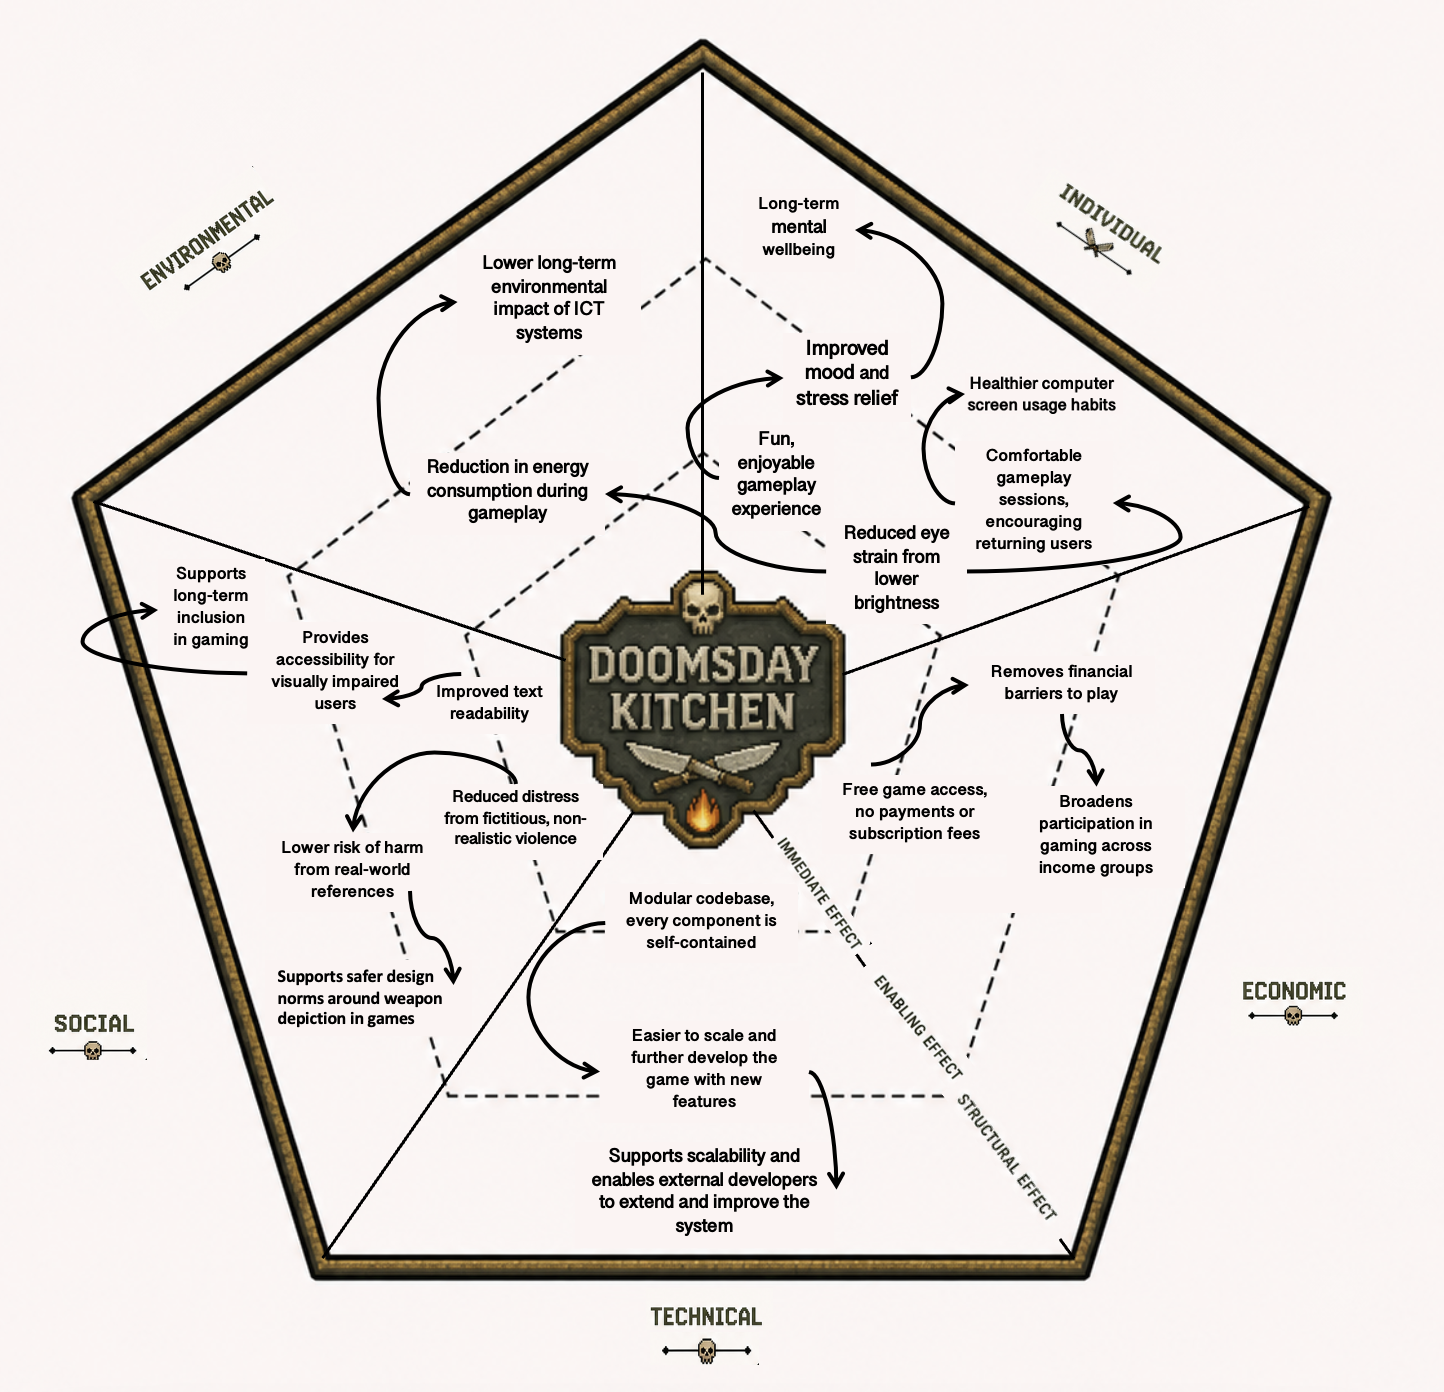
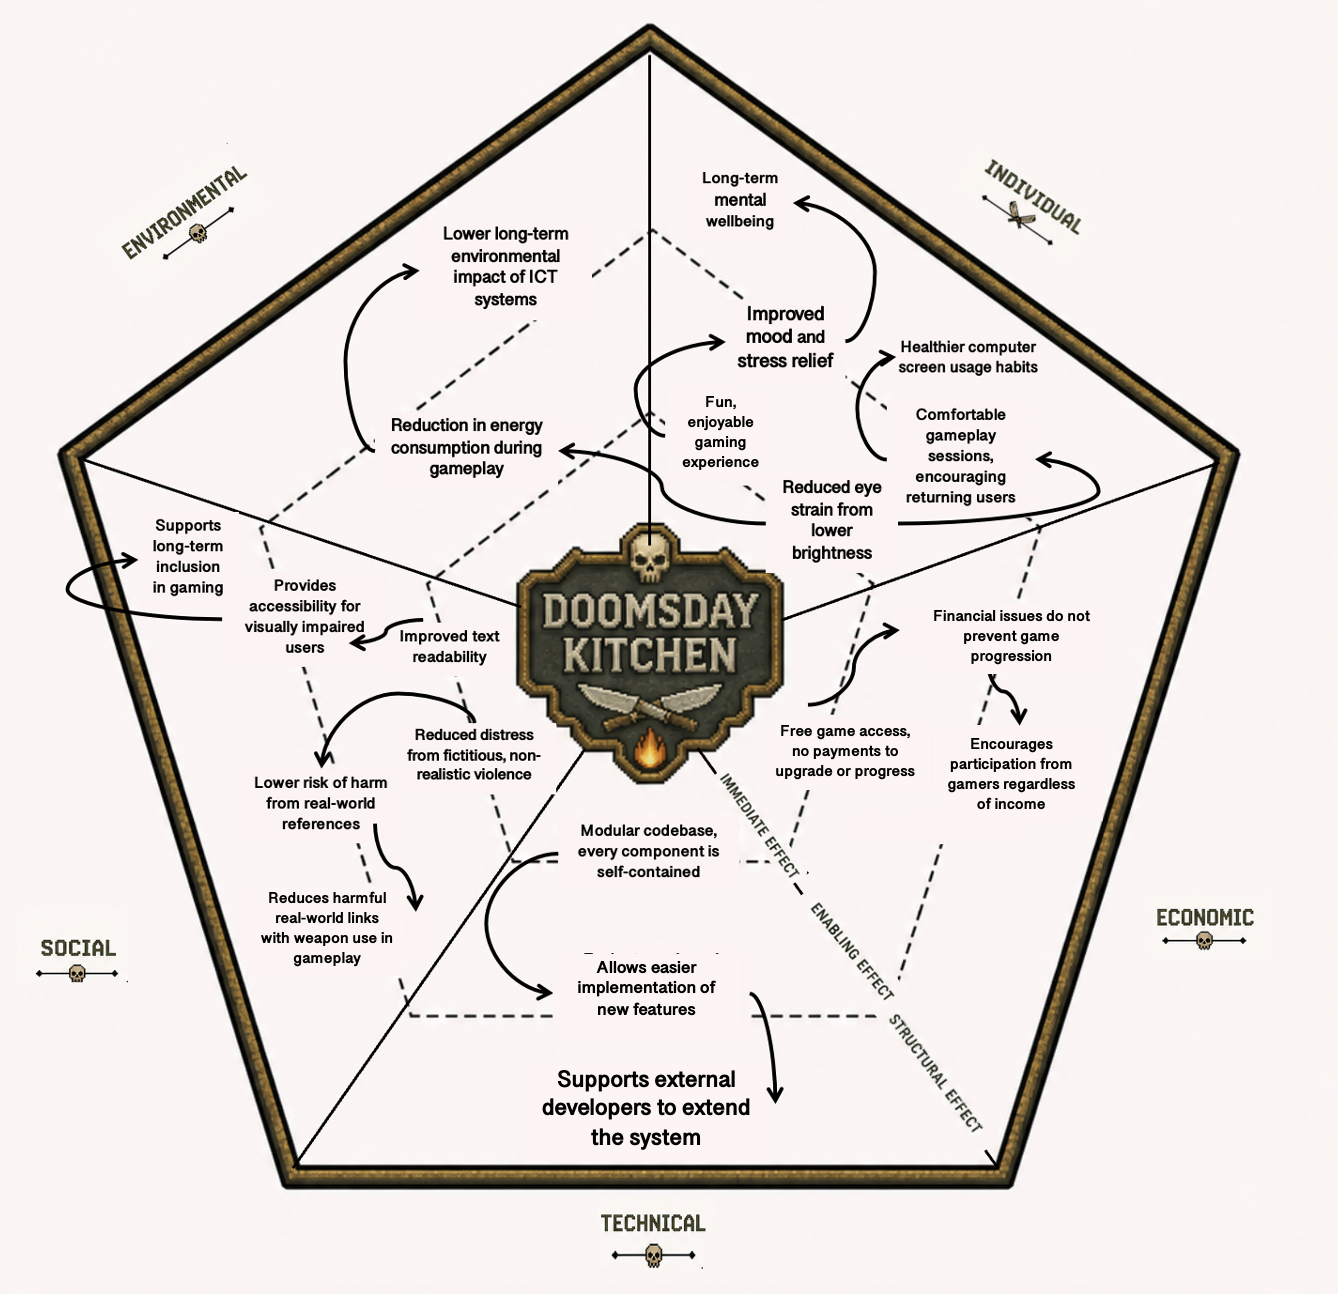
updated quant eval and references

diff --git a/README.md b/README.md
@@ -358,22 +358,7 @@ Based on the findings, several targeted design improvements were recommended:
 
 We administered the NASA Task Load Index (Hart and Staveland, 1988) to measure users’ perceived workload across two difficulty levels: Easy and Hard. The latter contained a higher spawn frequency of zombies. To reduce between-participant differences, a within-subjects design was adopted and we recruited only students. 
 
-Limitation: Learning effects potentially minimised perceived workload differences in the Hard difficulty. On reflection, the conditions could have been counterbalanced or randomised across participants, or possibly a time gap to reduce these biases. Nonetheless, the results show that workload predictably increased between the Easy and Hard difficulty levels.
-
-
 ## Results
-
-### Bar Chart: NASA Task Load Index (TLX)
-
-<p align="center">
-  <img src="documentation/Evaluation_figures/NASATLX,%20BARCHART.png"
-       width="700"
-       style="border-radius: 12px;">
-</p>
-
-A Wilcoxon Signed Rank Test showed statistical significance for the overall scores (W = 1, p < 0.005).
-
----
 
 ### Stacked Radar Chart: Aggregate perceived workload score (n = 10) for Easy and Hard difficulty
 
@@ -387,19 +372,27 @@ A Wilcoxon Signed Rank Test showed statistical significance for the overall scor
 
 ### Radar Chart (Easy Difficulty): Aggregate perceived workload score (n = 10), per dimension
 
+<table>
+  <tr>
+    <td align="center">
+      <strong>Radar Chart (Easy Difficulty)</strong><br>
+      Aggregate perceived workload score (n = 10), per dimension<br><br>
+      <img src="documentation/Evaluation_figures/NASATLXEASY.png" width="300">
+    </td>
+    <td align="center">
+      <strong>Radar Chart (Hard Difficulty)</strong><br>
+      Aggregate perceived workload score (n = 10), per dimension<br><br>
+      <img src="documentation/Evaluation_figures/NASATLXHARD.png" width="300">
+    </td>
+  </tr>
+</table>
+
+
+### Bar Chart: NASA Task Load Index (TLX)
+
 <p align="center">
-  <img src="documentation/Evaluation_figures/NASATLXEASY.png"
-       width="400"
-       style="border-radius: 12px;">
-</p>
-
----
-
-### Radar Chart (Hard Difficulty): Aggregate perceived workload score (n = 10), per dimension
-
-<p align="center">
-  <img src="documentation/Evaluation_figures/NASATLXHARD.png"
-       width="400"
+  <img src="documentation/Evaluation_figures/NASATLX,%20BARCHART.png"
+       width="700"
        style="border-radius: 12px;">
 </p>
 
@@ -417,11 +410,19 @@ A Wilcoxon Signed Rank Test showed statistical significance for the overall scor
 
 ---
 
-Mental, physical, temporal and effort scores were recorded significantly higher in the hard condition, as expected due to a higher zombie spawn frequency, tighter timing pressure, and the need for faster keyboard movements. 
+Most dimensions produced a significant result, demonstrating that perceived workload increased between easy and hard conditions, and our difficulty levels were clearly different. 
+
+Mental demand was significantly higher in the hard condition, which can be attributed to the increased zombie spawn frequency. This required players to handle multiple threats, moving quickly across the screen before zombies became too close. This likely challenged their attentional resources and, alongside the non-significant result in performance, is consistent with research that increasing "enemies" can reduce game performance and increase cognitive workload (Allison and Polich, 2009).
+
+Physical demand was moderately higher in the harder difficulty, as expected, due to the faster and more frequent keyboard inputs needed to manage multiple actions, such as shooting zombies and purchasing upgrades to succeed in the level.
+
+Temporal and effort scores were moderately higher in the hard condition, indicating players felt under time pressure and exerted more effort to achieve their score. We attribute this to increased perceived time pressure and higher task complexity due to the greater number of zombies. This is consistent with gaming research that use the NASA-TLX, indicating higher cognitive load in time-constrained situations where players feel the need to act quickly under pressure (Sevcenko et al., 2021).
 
 Interestingly, frustration had an insignificant result, with unusual variability in scores. For example, User 7 reported less frustration and effort for the hard condition, despite rating increased mental demand. User 1 also recorded less frustration in the harder condition, despite rating mental, physical and temporal demand as higher.
 
 This could be attributed to differences in participants’ perception of the game feedback, specifically the health bar, which very gradually decreased from 100% during gameplay. Participants may not have perceived this as impactful enough to feel frustrated. Rather than omitting these values as possible outliers, we included them in our evaluation, linking them to individual differences. 
+
+Limitation: Learning effects potentially minimised perceived workload differences in the Hard difficulty. On reflection, the conditions could have been counterbalanced or randomised across participants, or possibly a time gap to reduce these biases. Nonetheless, the results show that workload predictably increased between the Easy and Hard difficulty levels.
 
 
 ## Black Box Testing
@@ -484,17 +485,31 @@ Testing was performed by simulating real player behaviour and verifying that all
 | 3 | Key bindings are consistent | Same keys work throughout game | ✓ Pass |
 
 # 6. Sustainability
-It is important to consider the sustainability impact of our systems across all dimensions beyond its immediate effects (enabling and structural), as through our design we cause change, and shape our environment (Karlskrona, 2015 ADD REF).  
+It is important to consider the sustainability impact of our systems across all dimensions beyond its immediate effects (enabling and structural), as through our design we cause change, and shape our environment (Becker et al., 2015).  
 
-Our team conducted a sustainability impact analysis with the Sustainability Analysis Framework. We identified user stories for each dimension. However, we found the environment dimension, individual and social dimensions most applicable to our game.
+Our team conducted a sustainability impact analysis with the Sustainability Analysis Framework. We identified user stories for each dimension. 
+
+| Sustainability Dimension | User Story | Acceptance Criteria |
+|-------------------------|------------|---------------------|
+| Individual |  As a player, I want Doomsday Kitchen to have a pause menu, so I can prevent the continuous, addictive game loop and take a break. | Given I am playing a level, when I open the pause menu, then Doomsday Kitchen should halt immediately and display an option to exit. |
+|  | As a player, I want a brightness slider, so I can reduce eye strain during game sessions. | Given I am on the settings menu, when I adjust the brightness slider, then the brightness should immediately update to the selected value. |
+| Social | As a visually-impaired player, I want to increase text size, so I can read text comfortably. | Given I am on the settings menu, when I increase the text size, then all UI text should increase proportionally and remain readable for the session. |
+|  | As a hearing-impaired player, I want to control both sound effects and music volume, so that I can adjust the audio levels to suit my hearing needs. | Given I am on the settings menu, when I increase or decrease the music or sound effects volume, then they should update without affecting the other. |
+|  | As a player, I want Doomsday Kitchen phases to use fictional elements, so violent themes (like weaponery) feel more light-hearted and less realistic . | Given I am playing the game, when I enter the shooter or kitchen phase, then I should see characters and assets presented in a non-realistic style. |
+| Environmental | As an environmentally-aware player, I want to be able to exit Doomsday Kitchen's loop at any time, so I can reduce unnecessary energy consumption. | Given I am playing Doomsday Kitchen, when I choose to exit the level, then it should stop the game and return me to the main page. |
+| Technical | As a developer, I want Doomsday Kitchen code to be modular, so it is easier to maintain and update components. | Given the Doomsday Kitchen codebase, when new features are added, then they should not require significant changes to other components designs. |
+| Economic | As a player, I want to progress through levels in Doomsday Kitchen without needing to pay for key features, so I am not limited by my finances.  | Given I access Doomsday Kitchen, when I progress through levels, I should not be asked to make payments to continue. |
+
 
 #### Individual Impact
 
-**Doomsday Kitchen** may positively impact a user’s mental health by providing stress relief and a sense of accomplishment after each level/day survived. Research suggests that gaming can reduce stress and improve mood (WHO, 2025 ADD REF AT END OF REPORT), supporting the potential benefits of games as a leisure activity. 
+Doomsday Kitchen may positively impact a user’s mental health by providing stress relief and a sense of accomplishment after each level/day survived. Research suggests that gaming can reduce stress and improve mood (Vuorre et al., 2024), supporting the potential benefits of games as a leisure activity. 
 
-On the other hand, if users become highly engaged, the repetitive gameplay loop of “shooting scene → kitchen scene” may encourage an addictive engagement pattern, often described as a “just one more game (ADD REFERENCE AT END OF REPORT)” effect. As game "days" are relatively short and increase in difficulty, this may promote prolonged or repeated play.
+On the other hand, if users become highly engaged, the repetitive gameplay loop of “shooting scene → kitchen scene” may encourage an addictive engagement pattern. As game "days" are relatively short and increase in difficulty, this may promote prolonged or repeated play.
 
-To mitigate this, **Doomsday Kitchen** avoids long-term progression features such as player leaderboards and providing a pause menu to halt gameplay. This reduces the pressure for users to return and continue their progress or in stay in a continuous loop. Additionally, as no personal data is required to save progress or leaderboard information, user privacy is preserved.
+To mitigate this, Doomsday Kitchen avoids long-term progression features such as player leaderboards, which reduces competition between players. This reduces the pressure for users to return and continue their progress. In addition, we implemented a pause menu to halt gameplay to prevent the user playing for extended amounts of time in the continuous game loop. Additionally, as no personal data is required to save progress or leaderboard information, user privacy is preserved. 
+
+In the future, we could further mitigate this by isolating the game sessions into levels that users must unlock and enter themselves, rather than automatically starting the next one. Players would have clearer stopping points in sessions. 
 
 Physical health is also at risk, as extended play may contribute to eye strain; therefore, a brightness slider has been implemented to improve visual comfort.
 
@@ -506,32 +521,19 @@ Our game aims to promote inclusivity through features such as adjustable volume 
 
 While such features are already common in modern game design, as a team, we agreed their inclusion remains important. Consistent implementation of accessibility settings helps ensure that inclusive design continues to be standard practice within the games industry, rather than being overlooked or deprioritised.
 
-On the other hand, **Doomsday Kitchen** includes themes of combat, involving weapons such as “pistol”, “turret”, and “machine gun”, which are named after real-world items. Although this is a common convention in games such as Vampire Survivors, it may still be associated with violence.
+On the other hand, Doomsday Kitchen includes themes of combat, involving weapons such as “pistol”, “turret”, and “machine gun”, which are named after real-world items. Although this is a common convention in games such as Vampire Survivors, it may still be associated with violence.
 
-To mitigate this, the game is centred around fictitious entities, such as zombies, and original food items presented in a creative way. This helps detach the game from real-world contexts and reduces the perceived seriousness of combat. As a result, the game presents a more light-hearted experience.
+To mitigate this, the game is centred around fictitious entities, such as zombies, and original food items presented in a creative way. This helps detach the game from real-world contexts and reduces the perceived seriousness of combat. As a result, the game presents a more lighthearted experience.
 
 #### **Environmental Impact**
 
-GitHub Pages, on which Doomsday Kitchen is hosted, provides straightforward deployment and repository storage. However, commits, files, and branches are stored redundantly across multiple data centres (Medium, 2025 (ADD REFERENCE AT END OF REPORT)), contributing to increased energy consumption and greenhouse gas emissions. Although individual day/night phases are short, the continuous day–night progression creates a repeating loop that may encourage extended play, possibly increasing energy consumption over time.
+GitHub Pages, on which Doomsday Kitchen is hosted, provides straightforward deployment and repository storage. However, commits, files, and branches are stored redundantly across multiple data centres (Saifi, 2025), contributing to increased energy consumption and greenhouse gas emissions. Although individual day/night phases are short, the continuous day–night progression creates a repeating loop that may encourage extended play, possibly increasing energy consumption over time.
 
 The game uses moderately complex 2D graphics with GIF animations, UI overlays, and continuous rendering during gameplay, particularly for entity management across the "ShooterScene” and ”KitchenScene_MVP” files. This results in higher processing demand compared to simpler, static applications. This was particularly evident with two team members experiencing lag during the shooter scene, which worsened when multiple entities appeared in waves. In hindsight, the game could have benefited from compressed assets to reduce their storage size and processing demands.
 
 We aimed to reduce energy usage through features such as a brightness slider; while its primary purpose is to reduce eye strain, it may also contribute to minor reductions in screen energy consumption when used at lower levels.
 
-When developing this game, we prioritised using a visually appealing design and whilst this improved our user experience, there is a trade-off between user experience and environmental sustainability. In the future, our asset sizes and unnecessary rendering would be reduced to minimise energy consumption.
-
-| Sustainability Dimension | User Story | Acceptance Criteria |
-|-------------------------|------------|---------------------|
-| Individual | As a player, I want to be able to pause Doomsday Kitchen at any time, so that I can avoid repetitive, prolonged gaming sessions. | Given I am playing a level, when I open the pause menu, then Doomsday Kitchen should halt immediately and display options to exit or resume. |
-|  | As a player, I want a brightness slider, so that I can reduce eye strain during game sessions. | Given I am on the settings menu, when I adjust the brightness slider, then the brightness should immediately update to the selected level. |
-| Social | As a visually-impaired player, I want to increase text size, so that I can read content comfortably. | Given I am on the settings menu, when I increase the text size, then all UI text should increase proportionally and remain readable for the remainder of the Doomsday Kitchen session. |
-|  | As a hearing-impaired player, I want to control sound effects and music volume separately, so that I can customise the audio levels to suit my hearing needs. | Given I am on the settings menu, when I adjust the music or sound effects volume, then they should update without affecting the other. |
-|  | As a player, I want Doomsday Kitchen phases to use fictional and stylised elements, so that violent themes (like weaponry) feel less realistic or distressing. | Given I am playing the game, when I enter the shooter or kitchen phase, then I should see characters and assets presented in a non-realistic style. |
-| Environmental | As a player, I want Doomsday Kitchen to run efficiently, so that it minimises unnecessary energy consumption. | Given I am playing Doomsday Kitchen, when it is running, then it should be using compressed file formats to minimise size and rendering load. |
-|  | As an environmentally aware player, I want to be able to exit Doomsday Kitchen at any time, so that I can reduce excessive energy consumption. | Given I am playing Doomsday Kitchen, when I choose to exit the level, then I should be able to do so immediately without being forced to continue. |
-| Technical | As a developer, I want Doomsday Kitchen code to be modular, so that it is easier to maintain and update features. | Given the Doomsday Kitchen codebase, when new features are added, then they should not require significant changes to other components designs. |
-| Economic | As a player on a low budget, I want the Doomsday Kitchen to be free to access, so that I can play without considering my financial situation. | Given I access Doomsday Kitchen, when I click on “play”, then I should not be required to make a payment. |
-
+When developing this game, we prioritised using a visually appealing design and whilst this improved our user experience, there is a tradeoff between user experience and environmental sustainability. In the future, our asset sizes and unnecessary rendering would be reduced to minimise energy consumption.
 
 <p align="center">
   <img src="documentation/Sustainability_figures/ChainsOfEffects.png"
@@ -647,6 +649,18 @@ Overall, AI was used to support implementation, debugging, and visual drafting, 
 
 ## 11. References
 
+Allison, B.Z. and Polich, J. (2009) Workload assessment of computer gaming using a single-stimulus paradigm. Biological Psychology.
+
+Becker, C. et al. (2015) The Karlskrona Manifesto for Sustainability Design. https://sustainabilitydesign.org/karlskrona-manifesto/
+
+Hart, S.G. and Staveland, L.E. (1988) Development of NASA-TLX (Task Load Index): Results of empirical and theoretical research. In: Hancock, P.A. and Meshkati, N. (eds.) Human Mental Workload. Amsterdam: North Holland, pp. 139–183.
+
+Saifi, S. (2025) The Hidden Environmental Cost of Your GitHub Repos. Medium. https://medium.com/@sohail_saifi/the-hidden-environmental-cost-of-your-github-repos-e8dfa84e8c7a
+
+Sevcenko, N. et al. (2021) Measuring cognitive load using in-game metrics of a serious game. Frontiers in Psychology. https://doi.org/10.3389/fpsyg.2021.572437
+
+Vuorre et al. (2024) Affective Uplift During Video Game Play: A Naturalistic Case Study. 
+ACM Games. https://doi.org/10.1145/3659464
 
 ## Additional Marks
 
